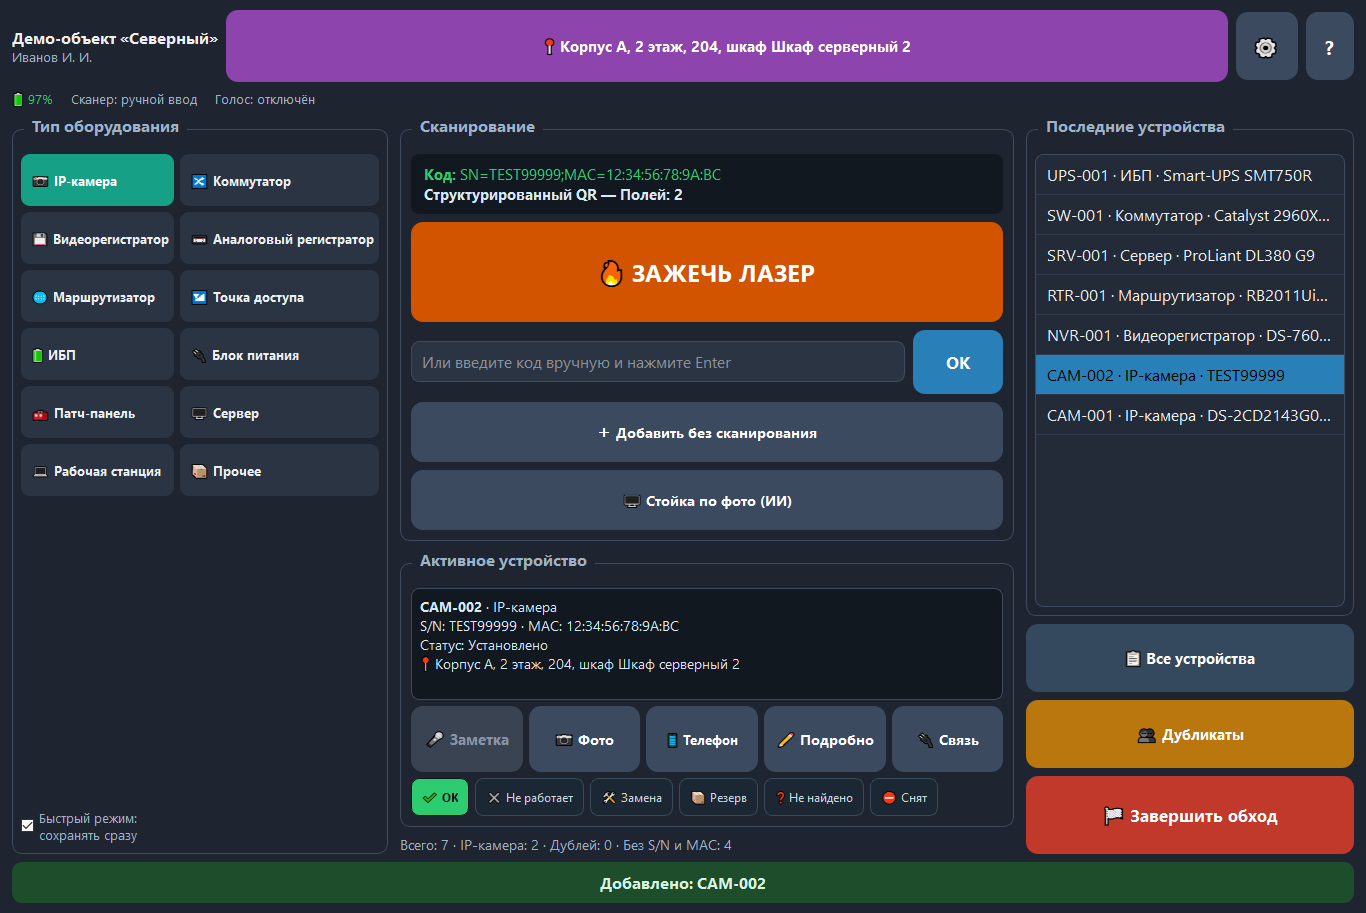
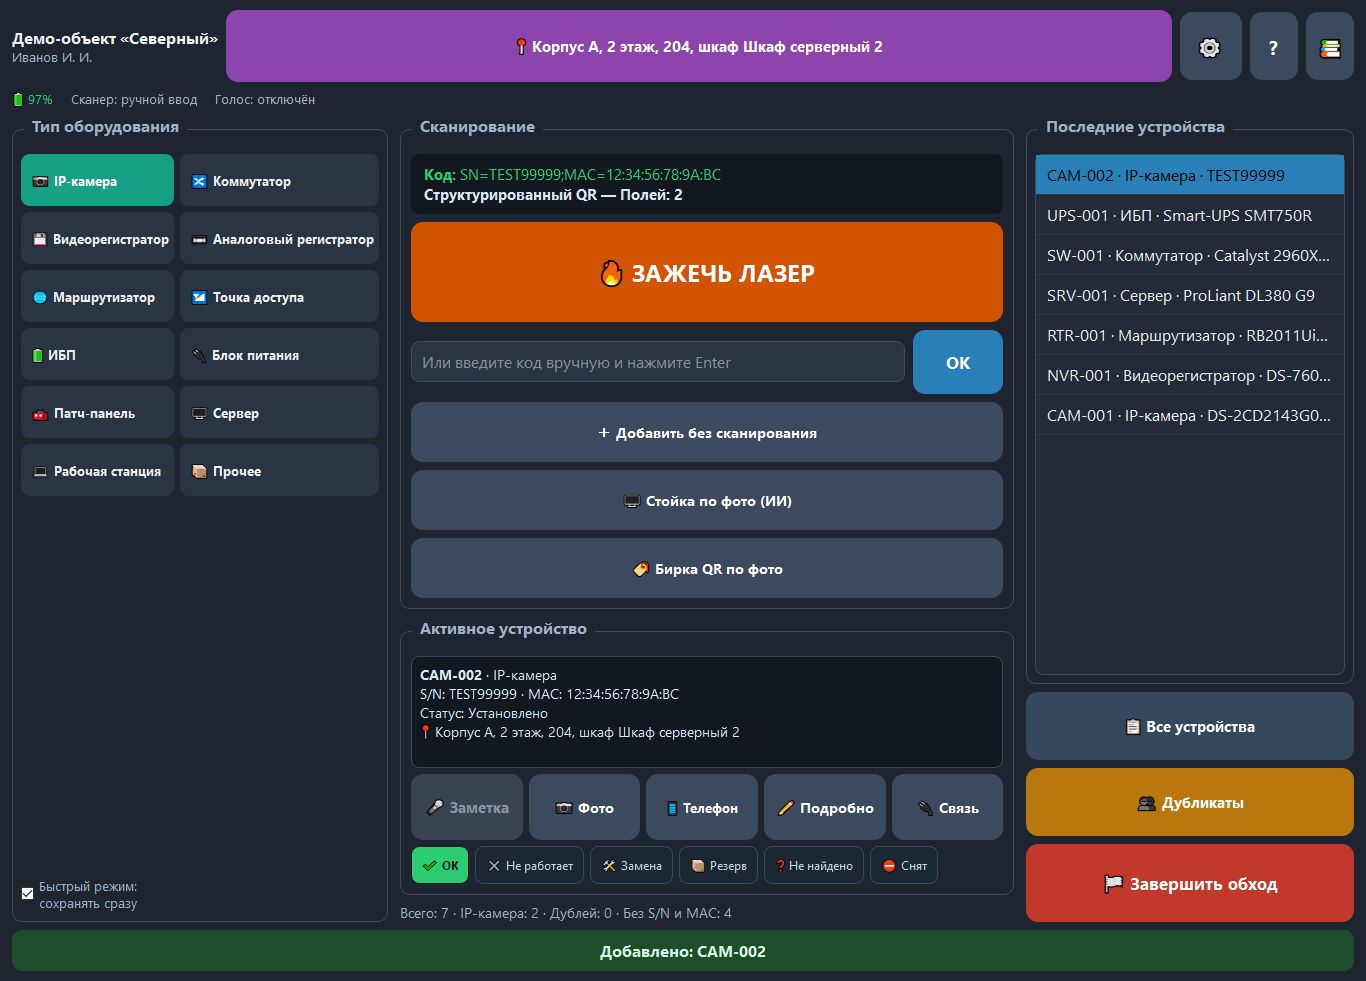
docs/tools: скриншот-тур 04/05 (v1.6.12) и чек-лист выезда
- tools/ui_screenshots.py: кадр 04 — Настройки → Данные (кнопка
  «Копии на флешку»), кадр 05 — стойка с дублями и правым кликом
  (подменю «Объединить со строкой…» раскрыто, «≈ дубль» первым);
  01–03 перегнаны тем же скриптом
- README.md: второй ряд таблицы скриншотов (04, 05)
- ЧЕК_ЛИСТ_ВЫЕЗД.md: сборка 1.6.12, правило жёлтых строк и правого
  клика в разделе 3, кнопка копий на флешку в разделе 4

Changed region(s): [[0.0, 0.0, 1.0, 0.9814]]

diff --git a/tools/ui_screenshots.py b/tools/ui_screenshots.py
@@ -6,6 +6,8 @@
   02_stoyka.png    — диалог «Стойка по фото (ИИ)» с реальным черновиком
                      из журнала бенчмарка (rack_mock.jpg, 8 юнитов)
   03_kartochka.png — карточка устройства
+  04_dannye_usb.png — Настройки → Данные (v1.6.12: копии на флешку)
+  05_stoyka_menu.png — дубли подсвечены + правый клик (v1.6.12)
 
 Запуск: python -X utf8 tools/ui_screenshots.py
 """
@@ -30,7 +32,13 @@ if os.environ.get("UI_SHOTS_OFFSCREEN"):
         )
 sys.path.insert(0, str(Path(__file__).resolve().parent.parent))  # noqa: E402
 
-from PyQt6.QtWidgets import QApplication, QDialog  # noqa: E402
+from PyQt6.QtCore import QPoint  # noqa: E402
+from PyQt6.QtGui import QPainter, QPixmap  # noqa: E402
+from PyQt6.QtWidgets import (  # noqa: E402
+    QApplication,
+    QDialog,
+    QTabWidget,
+)
 
 import inventory.ui.rack_dialog as rack_module  # noqa: E402
 import inventory.ui.survey_screen as survey_module  # noqa: E402
@@ -40,6 +48,7 @@ from inventory.core.repository import InventoryRepository  # noqa: E402
 from inventory.services.rack_ai import RackAnalysis, RackDevice  # noqa: E402
 from inventory.services.voice import VoiceService  # noqa: E402
 from inventory.ui.rack_dialog import RackDialog  # noqa: E402
+from inventory.ui.settings_dialog import SettingsDialog  # noqa: E402
 from inventory.ui.survey_screen import SurveyScreen  # noqa: E402
 from inventory.ui.widgets import apply_app_style  # noqa: E402
 
@@ -83,6 +92,33 @@ def latest_mock_analysis() -> RackAnalysis:
                     elapsed_s=entry.get("elapsed_s", 0), devices=devices,
                 )
     return RackAnalysis(ok=True, model_used="qwen2.5vl:3b", elapsed_s=95.0, devices=[])
+
+
+def demo_duplicates_analysis() -> RackAnalysis:
+    """Демо-кадр с дублем (v1.6.12): TP-LINK и на U7, и на U8.
+
+    Реальный кейс bench v1.6.10: соседние кадры одной стойки читают
+    одну коробку на разных позициях — подсветка предлагает проверить.
+    """
+    return RackAnalysis(
+        ok=True,
+        model_used="qwen2.5vl:3b",
+        elapsed_s=12.0,
+        devices=[
+            RackDevice(
+                type_code="switch", brand="TP-LINK", model="TL-SG1008",
+                position="U7", detail="",
+            ),
+            RackDevice(
+                type_code="switch", brand="Cisco", model="Catalyst 2960X",
+                position="U10", detail="",
+            ),
+            RackDevice(
+                type_code="switch", brand="TP-LINK", model="TL-SG1008",
+                position="U8", detail="видно порты",
+            ),
+        ],
+    )
 
 
 def main() -> int:
@@ -162,6 +198,63 @@ def main() -> int:
         print(f"03_kartochka.png "
               f"({(OUT / '03_kartochka.png').stat().st_size // 1024} КБ)",
               flush=True)
+
+    print("настройки: вкладка «Данные»…", flush=True)
+    settings = SettingsDialog(config, paths, voice=voice, repo=repo)
+    tabs = settings.findChild(QTabWidget)
+    if tabs is not None:
+        tabs.setCurrentIndex(3)  # «Данные»: копии, флешка, полевая тема
+    settings.resize(880, 640)
+    settings.show()
+    app.processEvents()
+    settings.grab().save(str(OUT / "04_dannye_usb.png"))
+    print(f"04_dannye_usb.png "
+          f"({(OUT / '04_dannye_usb.png').stat().st_size // 1024} КБ)",
+          flush=True)
+    settings.close()
+
+    print("стойка с дублями + меню правого клика…", flush=True)
+    # Патчи ставим ПОСЛЕ снимка 02: иначе живой тёплый старт оффнет
+    # статус потоком, а вопрос «восстановить черновик?» (02 сохранил
+    # строки в репо) повесит сценарий модалкой. Методы — на классе:
+    # newInstance их унаследует, 02 к этому моменту уже отработал.
+    rack_module.ollama_status = lambda *a, **k: (True, "qwen2.5vl:3b")
+    rack_module.RackDialog._start_warmup = lambda self: None
+    rack_module.RackDialog._try_restore_draft = lambda self: False
+    dialog = RackDialog(repo, session.id, paths, location=location)
+    dialog._on_analysis(demo_duplicates_analysis(), "rack_demo.jpg")
+    dialog._mark_duplicates()
+    dialog.resize(1080, 700)
+    dialog.show()
+    app.processEvents()
+    grab = dialog.grab()
+    menu = dialog._build_row_menu(0)  # строка 1 — TP-LINK на U7 (дубль)
+    anchor = QPoint(320, 260)
+    menu.popup(anchor)  # показать, чтобы стиль отрисовал меню
+    app.processEvents()
+    # Подменю «Объединить со строкой…» раскрываем: пункт «≈ дубль — …»
+    # и есть лицо слияния v1.6.12.
+    merge_act = menu.actions()[0]
+    merge_menu = merge_act.menu()
+    merge_pos = QPoint(
+        anchor.x() + menu.width() + 2,
+        anchor.y() + menu.actionGeometry(merge_act).y(),
+    )
+    if merge_menu is not None:
+        merge_menu.popup(merge_pos)
+        app.processEvents()
+    composite = QPixmap(grab)
+    painter = QPainter(composite)
+    painter.drawPixmap(anchor, menu.grab())
+    if merge_menu is not None:
+        painter.drawPixmap(merge_pos, merge_menu.grab())
+    painter.end()
+    composite.save(str(OUT / "05_stoyka_menu.png"))
+    menu.close()
+    dialog.close()
+    print(f"05_stoyka_menu.png "
+          f"({(OUT / '05_stoyka_menu.png').stat().st_size // 1024} КБ)",
+          flush=True)
 
     screen.close()
     voice.close()

diff --git a/ЧЕК_ЛИСТ_ВЫЕЗД.md b/ЧЕК_ЛИСТ_ВЫЕЗД.md
@@ -1,6 +1,6 @@
 # Чек-лист выезда — печать одного листа
 
-Дата выезда: четверг __.__.____  ·  Сборка: **InventorySurvey v1.6.3**  ·  ИИ-модель: **qwen2.5vl:3b**
+Дата выезда: четверг __.__.____  ·  Сборка: **InventorySurvey v1.6.12**  ·  ИИ-модель: **qwen2.5vl:3b**
 
 ---
 
@@ -37,6 +37,9 @@
   ИБП/PDU/регистратор → «коммутатор»); бренд и модель читаются надёжнее
 - **S/N и MAC стойкой не собираются** — физика: потом лазером или «🔍 Этикетка» крупным кадром по каждому юниту
 - Число записей в таблице = числу видимых юнитов; мусор снимается галочкой, не создавайте лишнее
+- **Жёлтая подсветка строки = возможный дубль** (та же модель на другой позиции):
+  правый клик по строке → «🔗 Объединить со строкой…» — пункт «≈ дубль» первым
+  (пустые поля приёмника заполнятся, заполненные не тронутся); лишняя строка — «🗑 Удалить строку»
 - Журнал разборов `data\logs\rack_ai_log.jsonl` пишется сам — **не удалять до дебрифинга**
 - Батарея: ИИ-разбор и голос заметно жрут заряд — следите, планируйте розетку
 - Фото этикетки снимайте крупно, без бликов; OCR — «кандидаты», правьте руками
@@ -46,6 +49,8 @@
 - [ ] Забрать с V110 на флешку: `data\inventory.db` (копия), `data\exports\*.xlsx`, вся папка `data\logs\`
       — или одним скриптом: `tools\backup_data.bat <буква флешки>:\polevoy_den`
       (в течение дня можно держать включённым `tools\backup_loop.bat <флешка>:\polevoy_den` — копия каждые 20 мин)
+- [ ] Проще: в приложении «⚙ Настройки» → вкладка «Данные» → **«💾 Копии на флешку…»**
+      (v1.6.12: скопирует `data\backups` + манифест на съёмный диск, сверит SHA-256 на флешке после записи)
 - [ ] Протокол пилота: заполнить шаги 0.x, 2.1–2.14 (в т.ч. время разбора и число распознанных юнитов), 3.x
 - [ ] Записать честно: где модель пропустила юниты, где придумала, что неудобно руками
 - [ ] Вечером на этой машине: `python -X utf8 tools\debrief_report.py` — печатный разбор журнала

diff --git a/README.md b/README.md
@@ -49,6 +49,8 @@ Actions (ruff + pytest на каждый пуш).
 |---|---|
 | **Экран обхода**: типы в один клик, сканирование, активная карточка, последние устройства | **«Стойка по фото (ИИ)»**: черновик юнитов с фото, галочки и правка типа/модели перед созданием пачкой |
 | ![Экран обхода](tools/assets/screenshots/01_obhod.png) | ![Диалог стойки](tools/assets/screenshots/02_stoyka.png) |
+| **Настройки → Данные**: папки, восстановление/проверка копий и «Копии на флешку» (v1.6.12) | **Дубли и правый клик**: жёлтая подсветка сомнительных строк, «Объединить со строкой…» («≈ дубль» первым), «Удалить строку» |
+| ![Настройки — Данные](tools/assets/screenshots/04_dannye_usb.png) | ![Дубли и меню строки](tools/assets/screenshots/05_stoyka_menu.png) |
 
 ---
 
